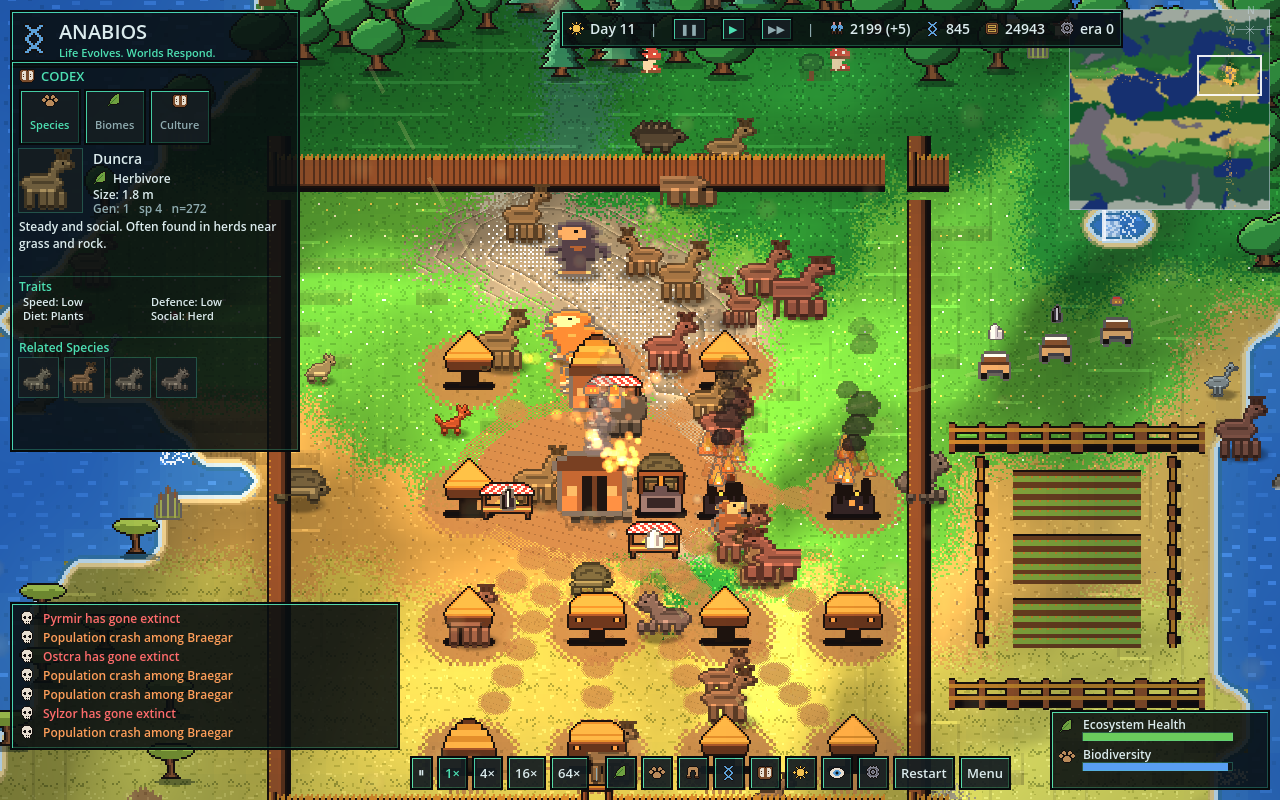
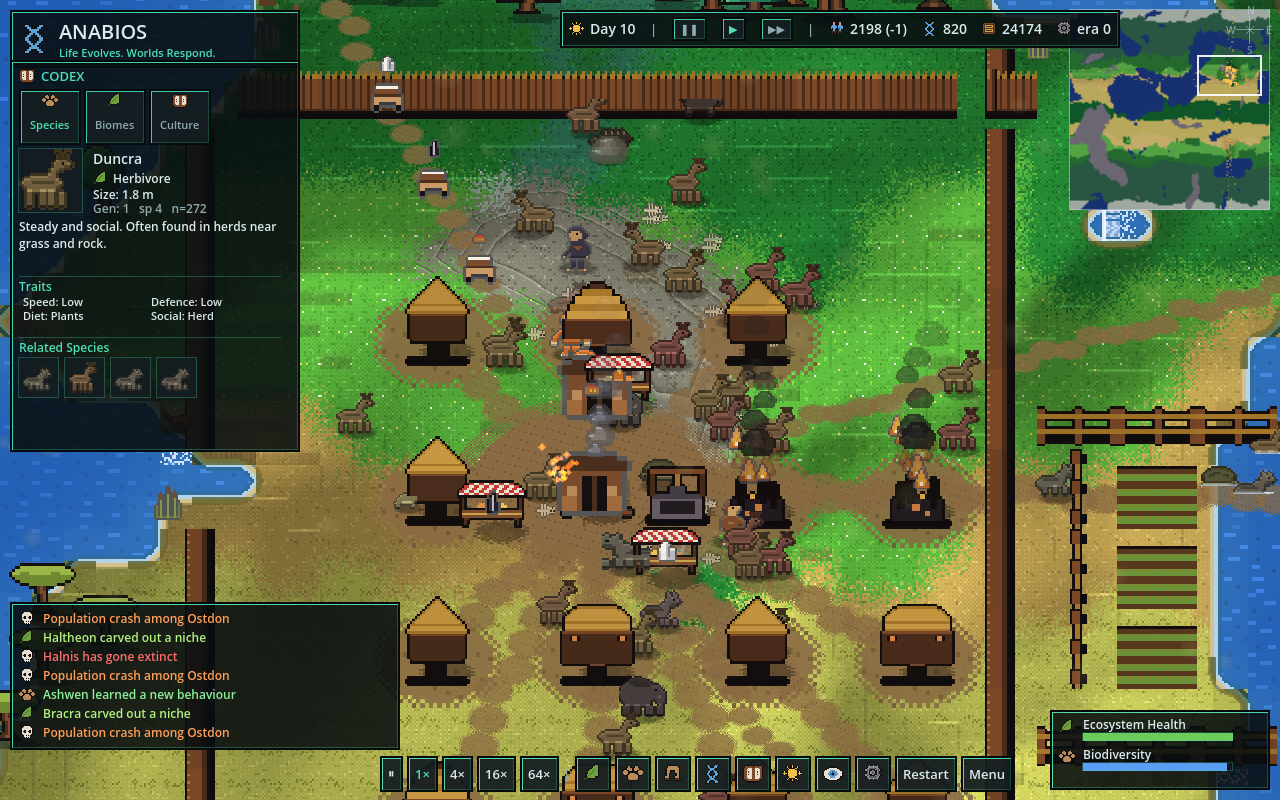
gallery, docs: stills and notes for the 2.5D structure scale
Six stills recaptured with the tall walled structures, the 20-unit
tile and the 0.7 canopies; the README, ROADMAP and gallery captions
name the 3/4-view convention they follow.

Claude-Session: https://claude.ai/code/session_019kbTtZKC2VJBPY6SALU64h

diff --git a/gallery/README.md b/gallery/README.md
@@ -42,9 +42,9 @@ pins an agent in the unit card.
 
 | File | Scenario / tick / zoom | What you're seeing |
 |---|---|---|
-| scale-settlement-t891-village-4x.png | `settlement` t891 4× (default camera, `ANABIOS_INSPECT=1`) | A camp on packed-earth yards with paths to the hearth, tents spaced a hut-width apart, the crowd capped to one figure per 17 units at 4× (12 at 2×, staggered rows), a market square with awning stalls beside it, pixel-puff hearth smoke, the outcrop east of the camp as warm stone, the unit card. |
-| scale-settlement-t891-fortified-2x.png | `settlement` t891 2× (`ANABIOS_VILLAGE_ERA=2 ANABIOS_VILLAGE_FLAGS=123`) | The same camp forced into its fortified era: timber-frame houses with slate roofs, a log palisade hugging them, a gate with banners and a catapult to the south, a watchtower, fenced fields outside the wall, the forest standing back from the clearing. |
-| scale-settlement-t891-raided-4x.png | `settlement` t891 4× (`ANABIOS_VILLAGE_ERA=1 ANABIOS_VILLAGE_FLAGS=127`) | The same camp as a raided thatch village: burnt ruins with pixel flames and black smoke over them, the palisade, the fenced field. |
+| scale-settlement-t891-village-4x.png | `settlement` t891 4× (default camera, `ANABIOS_INSPECT=1`) | A camp on packed-earth yards with paths to the hearth, tents spaced a hut-width apart on 20-unit tiles, the crowd capped to one figure per 17 units at 4× (12 at 2×, staggered rows), a market square with awning stalls beside it, pixel-puff hearth smoke, the outcrop east of the camp as warm stone, the unit card. |
+| scale-settlement-t891-fortified-2x.png | `settlement` t891 2× (`ANABIOS_VILLAGE_ERA=2 ANABIOS_VILLAGE_FLAGS=123`) | The same camp forced into its fortified era: timber-frame houses with slate roofs over a front wall about a figure high (the 32×44 tall variants, roughly two figures tall on a 20-unit tile), a log palisade hugging them, a gate with banners and a catapult to the south, a watchtower, fenced fields outside the wall, the forest standing back from the clearing. |
+| scale-settlement-t891-raided-4x.png | `settlement` t891 4× (`ANABIOS_VILLAGE_ERA=1 ANABIOS_VILLAGE_FLAGS=127`) | The same camp as a raided thatch village: thatch huts with walled fronts, burnt ruins with pixel flames and black smoke over them, the palisade, the fenced field. |
 | scale-settlement-t3120-camp-4x.png | `settlement` t3120 4× | The same camp later: hearth smoke, herds at the square, codex species page. |
 | scale-settlement-t1020-codex-species-2x.png | `settlement` t1020 2× (`ANABIOS_CODEX_TAB=1`) | The settlement peninsula: flat lake water with block ripples, dithered biome borders, mixed oak silhouettes, olive savanna, resting herds with their heads up, the HUD. |
 | scale-settlement-t1591-1x.png | `settlement` t1591 1× | The same world at 1×: dirt roads threading between the market squares. |
@@ -52,7 +52,7 @@ pins an agent in the unit card.
 | scale-settlement-t891-market-8x.png | `settlement` t891 8× at (1060, 298) | The market square up close: stalls, goods on the counters, carts, the square's earth at the ground tiles' grain. |
 | scale-trade-hubs-t600-roads-2x.png | `trade-hubs` t600 2× at (1060, 298) | Dirt roads worn along the caravan routes from the market square through the woods, stopping at the water. |
 | scale-trade-hubs-t600-market-4x.png | `trade-hubs` t600 4× at (1060, 298) | A trade hub as a market square in the woods with its roads leading off, a snow patch with an ordered-dither edge on the outcrop behind it. |
-| scale-riverlands-t291-relief-2x.png | `riverlands` t291 2× | Rivers with waterfalls on their steep stretches, contour-ledged mountains in warm olive stone with a dithered snow line, forests mixing three oaks, clutter on the grass. |
+| scale-riverlands-t291-relief-2x.png | `riverlands` t291 2× | Rivers with waterfalls on their steep stretches, contour-ledged mountains in warm olive stone with a dithered snow line, forests mixing three oaks at 0.7 scale (a tree a little taller than a house, not three huts high), clutter on the grass. |
 | scale-riverlands-t291-river-4x.png | `riverlands` t291 4× at (2367, 1017) | A one-cell river running diagonally through the oaks as one stream between mud banks: the diagonal coast tiles carry a channel instead of pinching the cells into beads, and a river shore is bank, not beach. |
 | scale-riverlands-t291-clutter-4x.png | `riverlands` t291 4× at (2500, 1200) | Flowers, tufts, mushrooms and stumps at 4×. |
 | scale-riverlands-t291-lake-4x.png | `riverlands` t291 4× at (2427, 1357) | A desert lake: one flat blue, sparse strokes, foam and beach from the coast autotile. |

diff --git a/README.md b/README.md
@@ -25,7 +25,7 @@ Design at [`docs/superpowers/specs/2026-05-23-anabios-design.md`](docs/superpowe
 - **Anthropogenic arms race** — scenario-tagged `culture_bearer` lineages ("humans") are perceptible to wild agents as tool-bearing threats (new sensor + evolvable `SenseCultureThreat` program node + the `Vigilance` gene's FEAR gain); the `HuntedAdaptation` codex event fires when a hunted prey lineage's armor/speed/vigilance co-rises with its culture predator's tech era/weapon damage. Opt-in per scenario (`anthro_race_enabled`, spec: `docs/superpowers/specs/2026-08-19-anthro-arms-race-design.md`)
 - **Disease & epidemiology (H1)** — crowding-seeded SIS pathogen: zoonotic spillover in dense populations, proximity spread, energy-drain mortality via the normal starve path; Medicine finally has a counter-pressure (holders are 0.25× as susceptible and recover 3×). `EpidemicOutbreak`/`MedicineContainment` codex events (61/62). Opt-in per scenario (`disease_enabled`, spec: `docs/superpowers/specs/2026-09-01-disease-epidemiology-design.md`)
 - **Vertebrate classes** — mammal/reptile founder archetypes (`mammal_grazer`, `mammal_pursuer`, `reptile_ambusher`, `reptile_basker`) pairing class body plans with affect/cognition genome profiles: endotherm-approximated mammals (high metabolism, big-brained, social, bold) vs ectotherm-approximated reptiles (cheap idle, armored, hair-trigger freeze-fight-flight, ambush Jaws). Demo: `scenarios/mammals-vs-reptiles.toml`
-- **Viewer** — Godot 4.6+ client in the pixel-art style of the reference boards: streamed, autotiled ground with hand-drawn tiles, flora and 24 px creature figures, village footprints in clearings (camps, thatch huts, timber-frame houses, palisades, catapults, fields, burning ruins), market squares joined by dirt roads, a themed HUD (smooth sans by default, a 5×7 pixel font as an opt-in) with biome/species/pheromone overlays, unit card, tabbed codex (research, species, biomes, culture), event log, co-evolution charts, per-species tables behind `[P]`
+- **Viewer** — Godot 4.6+ client in the pixel-art style of the reference boards: streamed, autotiled ground with hand-drawn tiles, flora and 24 px creature figures, 2.5D-scaled buildings in the open-source 3/4-view convention (a roof over a front wall about a figure high, trees a little taller than the houses), village footprints in clearings (camps, thatch huts, timber-frame houses, palisades, catapults, fields, burning ruins), market squares joined by dirt roads, a themed HUD (smooth sans by default, a 5×7 pixel font as an opt-in) with biome/species/pheromone overlays, unit card, tabbed codex (research, species, biomes, culture), event log, co-evolution charts, per-species tables behind `[P]`
 - **Tooling** — headless sweep CLI (parallel seeds → JSONL + CSV) with archive-weighted emergence scoring (`docs/emergence-corpus.md`), save/load snapshots (`docs/determinism-contract.md`), criterion benchmark suite
 
 ## Scenarios

diff --git a/ROADMAP.md b/ROADMAP.md
@@ -165,7 +165,8 @@ the invasion margin or gets honestly closed.*
   ground, autotiled coasts, waterfalls, contour-ledged mountains, mottled
   tiles with clutter, mixed tree silhouettes, hand-authored 24 px quadruped
   and hominin masters y-sorted across species in one MultiMesh, spaced
-  villages in clearings on dirt yards with paths (camps, thatch huts,
+  villages in clearings on dirt yards with paths, their walled buildings
+  about two figures tall in the 3/4-view convention (camps, thatch huts,
   timber-frame houses, palisades, catapults, fields, burning ruins), market squares
   joined by dirt roads, the themed HUD, and captures in
   `gallery/scale-*.png`. Still open: the SubViewport pixel pipeline and the
